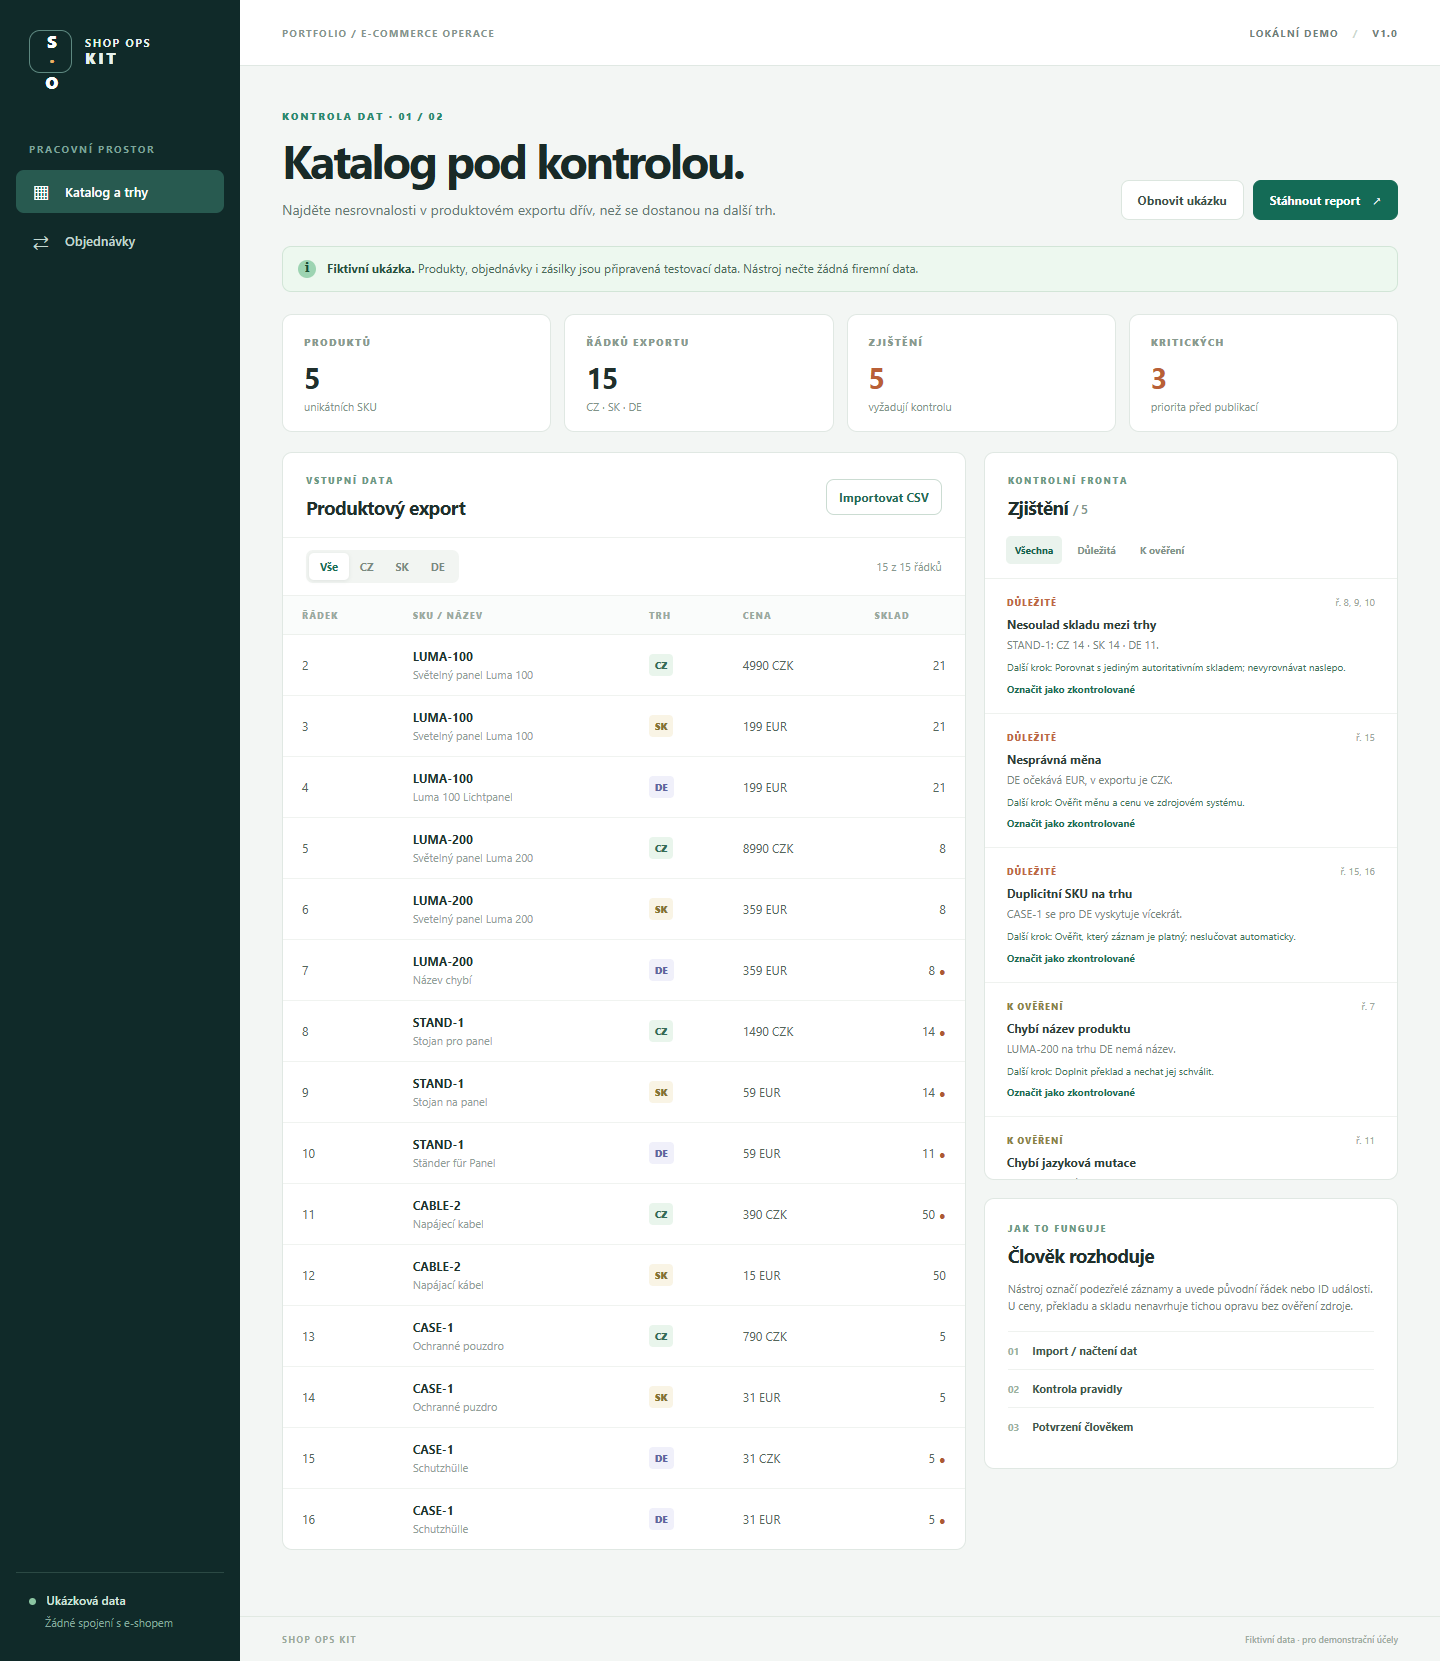
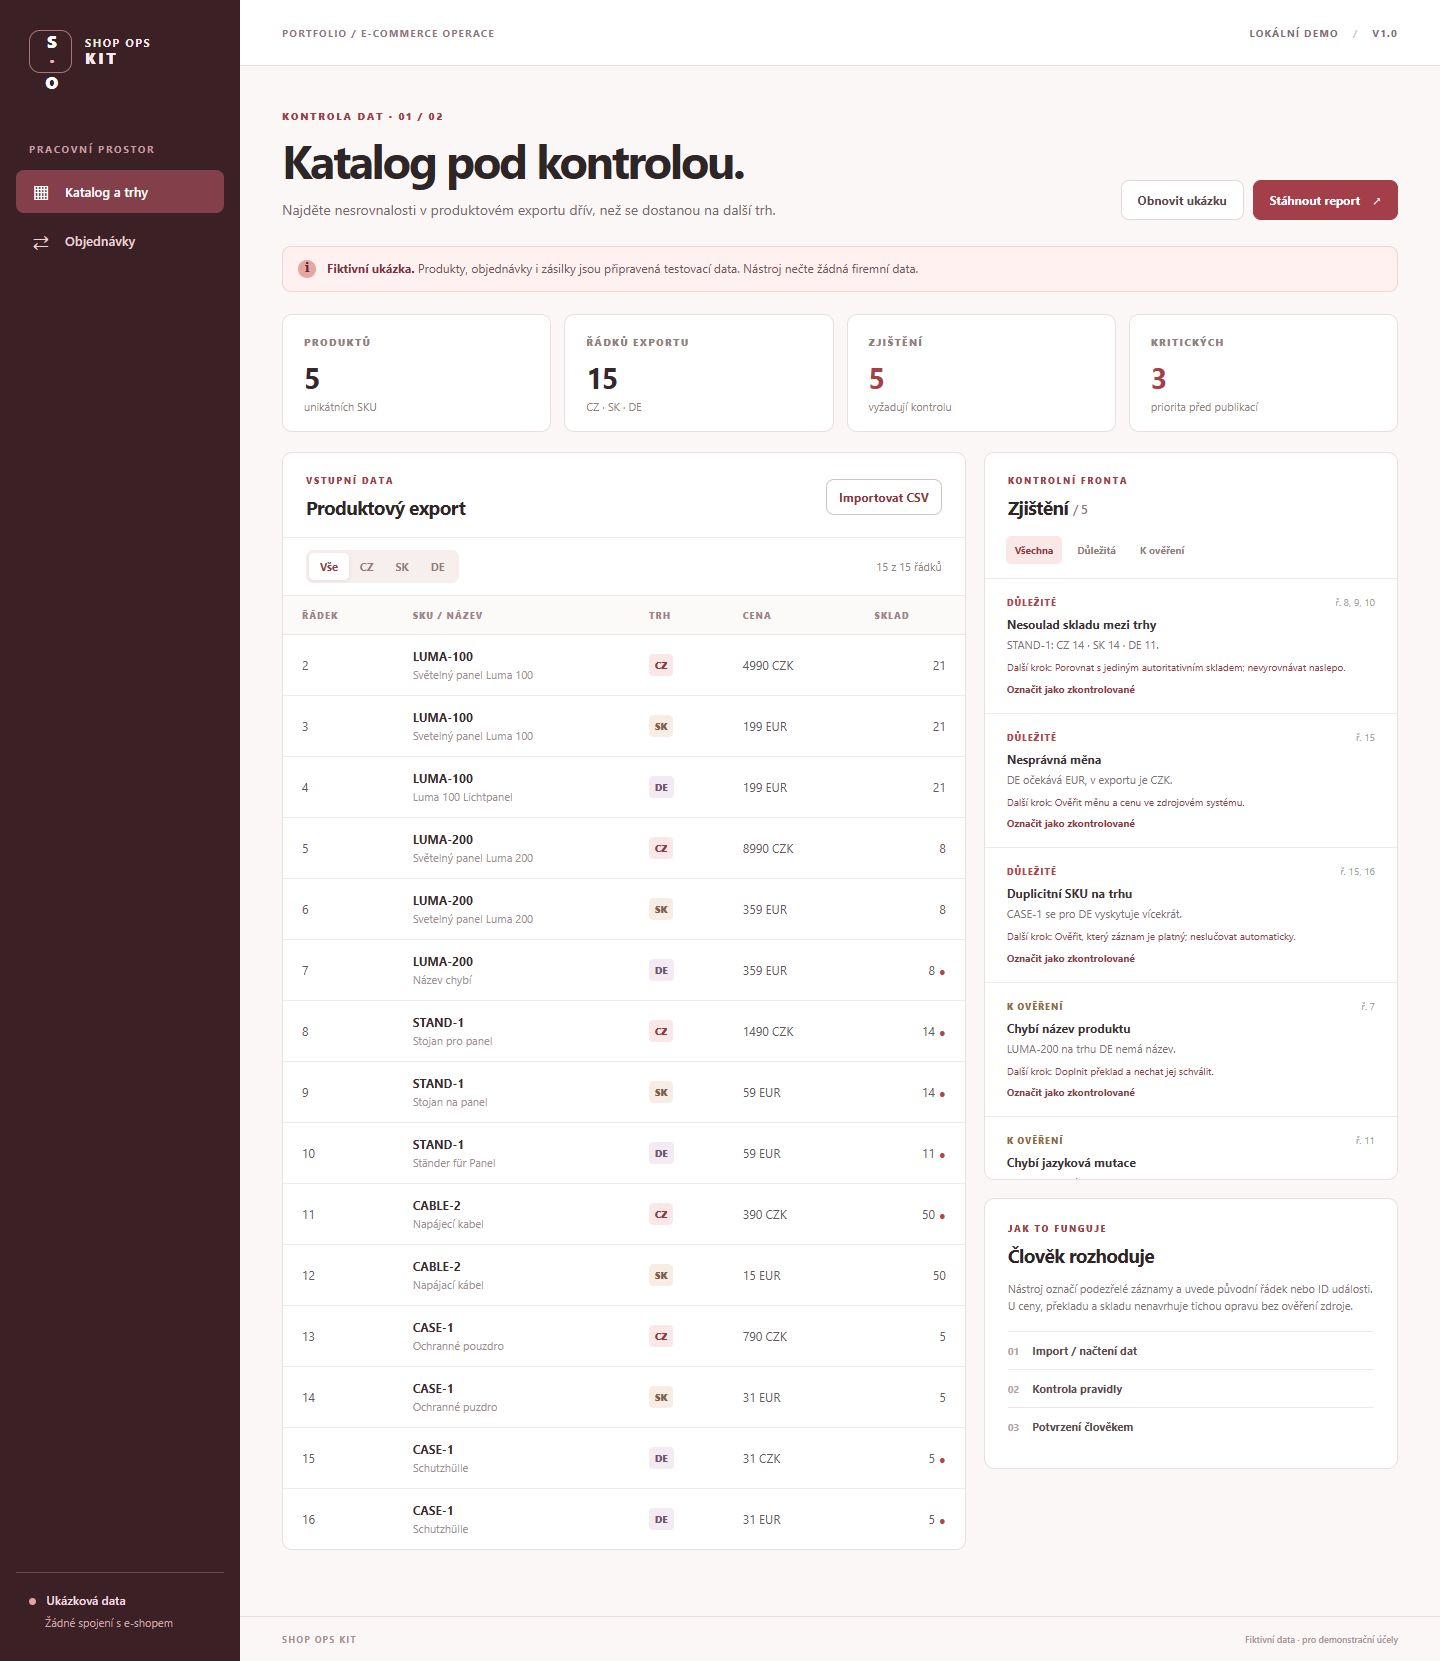
Apply red palette to Shop Ops Kit

diff --git a/red.css b/red.css
@@ -1,0 +1,66 @@
+/* Red identity for the e-commerce operations dashboard. */
+:root { color: #30282a; background: #faf7f6; }
+button:focus-visible, a:focus-visible, label:focus-within { outline-color: #d3676b; }
+.rail { background: #3b2026; color: #f9ecec; }
+.brand-mark { border-color: #a57779; }
+.brand-mark span { color: #efb0a9; }
+.rail-caption { color: #c69da1; }
+.nav-item { color: #ebd3d5; }
+.nav-item:hover { background: #553039; }
+.nav-item.selected { background: #84404a; color: #fff; }
+.rail-bottom { border-color: #70454c; color: #f2dde0; }
+.rail-bottom small { color: #cba7ab; }
+.demo-dot { background: #e4a3a6; }
+
+.topbar { border-color: #eadfdf; color: #8d777a; }
+.topbar-right { color: #836b70; }
+.separator { color: #d7c8ca; }
+.eyebrow, .panel-kicker { color: #9d3e49; }
+h1, .panel h2 { color: #2e2527; }
+.period { color: #ba4a52; }
+.lede { color: #77686b; }
+.primary { background: #a43e49; border-color: #a43e49; }
+.primary:hover { background: #87313b; }
+.secondary { border-color: #e5d8da; color: #5d454a; }
+.secondary:hover, .outline:hover { background: #fbefef; }
+.outline { border-color: #d9bfc2; color: #8e3540; }
+.notice { background: #fff1f0; border-color: #efd5d4; }
+.notice-icon { background: #e7a5a4; color: #592830; }
+.notice p { color: #755358; }
+.notice strong { color: #7f303b; }
+
+.metric, .panel { border-color: #e9dfe0; }
+.metric .label, .metric .sub { color: #947e81; }
+.metric .number { color: #35282b; }
+.metric.alert .number { color: #a83f48; }
+.heading-count, .count-label { color: #947e81; }
+.filterbar { border-color: #f0e8e8; }
+.segmented { background: #f7eeee; }
+.segmented button { color: #927c80; }
+.segmented button.active { color: #973c46; box-shadow: 0 1px 4px #5a252517; }
+th { background: #fcf9f9; color: #9c8588; border-color: #efe5e6; }
+td { color: #67585b; border-color: #f2eaea; }
+tbody tr:hover { background: #fff8f7; }
+.sku { color: #392b2e; }
+.title-sub { color: #a08e91; }
+.market-pill { color: #8e3b46; background: #fae8e9; }
+.market-pill.de { color: #72556f; background: #f4eaf3; }
+.market-pill.sk { color: #815c48; background: #f8ede4; }
+.flag, .severity { color: #b3464b; }
+.severity.medium { color: #926b43; }
+.finding-filters { border-color: #f0e8e8; }
+.finding-filters button { color: #927e81; }
+.finding-filters button.active { color: #923842; background: #fae8e9; }
+.finding { border-color: #f0e8e8; }
+.finding h3 { color: #403034; }
+.finding p { color: #827073; }
+.finding .action, .review-button { color: #8d3d48; }
+.finding.reviewed { background: #fdfafa; }
+.finding.reviewed h3 { color: #9b868a; }
+.method-panel p:not(.panel-kicker), .panel-description { color: #827073; }
+.method-line { border-color: #f0e8e8; color: #604a4e; }
+.method-line span { color: #bb9ea3; }
+.table-note, .empty-state { color: #927e81; }
+.tag { color: #923d46; background: #fae8e9; }
+footer { border-color: #eadfdf; color: #a78f92; }
+.toast { background: #542932; box-shadow: 0 10px 35px #3b202628; }

diff --git a/index.html b/index.html
@@ -4,8 +4,10 @@
   <meta charset="utf-8">
   <meta name="viewport" content="width=device-width, initial-scale=1">
   <meta name="description" content="Ukázková kontrola e-shopových dat a objednávek na fiktivních datech.">
+  <meta name="theme-color" content="#3b2026">
   <title>Shop Ops Kit — kontrola e-shopových dat</title>
   <link rel="stylesheet" href="/style.css">
+  <link rel="stylesheet" href="/red.css">
   <script type="module" src="/app.mjs"></script>
 </head>
 <body>

diff --git a/README.md b/README.md
@@ -30,9 +30,14 @@ Požadované sloupce: `sku;market;title;price;currency;stock;url`. Trhy: CZ (CZK
 - Zjištění zásilky bez objednávky, nesouladu SKU, expedice zrušené objednávky a chybějícího odeslání zaplacené objednávky.
 - Export kontrolního reportu. Tento modul používá připravená data; nemá import skutečných objednávek.
 
+## Co uvidíte po spuštění
+
+Výchozí katalog obsahuje 5 produktů na 15 řádcích a 5 zjištění (3 důležitá). Ukázka objednávek obsahuje 6 objednávek a 7 expedičních událostí; jedna událost má opakované ID, proto se započítá jen 6 unikátních událostí. Modul zobrazí 6 zjištění k prověření. Kliknutí na „Označit jako zkontrolované“ mění stav pouze v otevřené stránce; při obnovení se ztratí. Stažený JSON report obsahuje i aktuální označení.
+
 ## Rozhodnutí a limity
 
 - Pravidla pouze označují riziko. Neprovádějí automatické změny v cenách, skladech ani překladech.
+- Kontrola ceny ověřuje kladnou číselnou hodnotu a měnu trhu; neurčuje, zda je cena obchodně správná ani nepočítá směnné kurzy.
 - Veškeré zpracování probíhá lokálně v prohlížeči. Server pouze servíruje statické soubory na `127.0.0.1` a používá omezenou sadu cest a bezpečnostní hlavičky.
 - Dalším krokem pro skutečný provoz by byl import anonymizovaného exportu nebo samostatný konektor s přístupovými právy a testovacím prostředím.
 - AI byla použita jako vývojový asistent při návrhu, implementaci a kontrole. Zjištění v aplikaci vznikají deterministicky podle popsaných pravidel, ne pomocí LLM.
